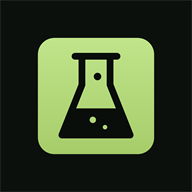
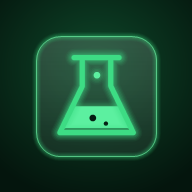
Ícone no estilo neon (vidro verde com brilho); nova versão do cache

diff --git a/index.html b/index.html
@@ -5,7 +5,7 @@
 <meta name="viewport" content="width=device-width,initial-scale=1,viewport-fit=cover">
 <meta name="apple-mobile-web-app-capable" content="yes">
 <meta name="apple-mobile-web-app-status-bar-style" content="black-translucent">
-<meta name="theme-color" content="#090e0b">
+<meta name="theme-color" content="#04150d">
 <meta name="description" content="Gefaz Calda — compatibilidade agronômica e físico-química de misturas em tanque, integrada ao Gefaz360 e ao PVGest.">
 <link rel="manifest" href="manifest.json">
 <link rel="apple-touch-icon" href="icon-192.png">

diff --git a/sw.js b/sw.js
@@ -1,4 +1,4 @@
-const CACHE = 'gefaz-calda-v28';
+const CACHE = 'gefaz-calda-v29';
 const ASSETS = ['./', './index.html', './app.css', './app.js', './kb.js', './engine.js', './pontas.js', './estoque.js', './produtos.js', './fazenda.js', './estoque-ui.js', './metas-ui.js', './produtos-ui.js', './sdk.js', './manifest.json', './icon-192.png', './icon-512.png', './data/agrofit-index.json'];
 self.addEventListener('install', e => {
   e.waitUntil(caches.open(CACHE).then(c => c.addAll(ASSETS)).then(() => self.skipWaiting()));
